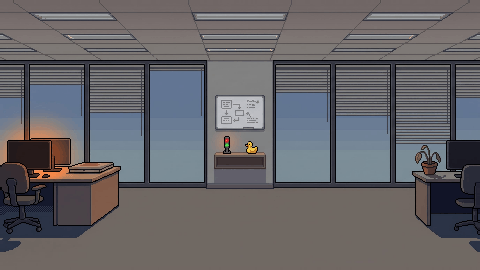
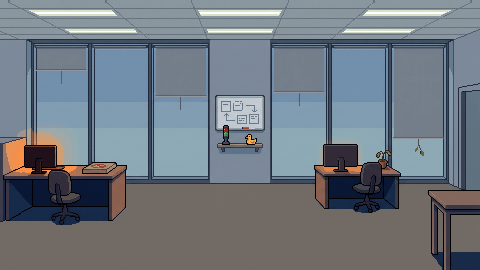
feat(pushback): the four scenes from the third round, with the furniture at the figures' scale; the loops remapped; the duellists 150 apart in every room

diff --git a/src/lib/lab/pushback/characters.ts b/src/lib/lab/pushback/characters.ts
@@ -183,15 +183,18 @@ export const SCENE_OF: Record<Role | 'boss', SceneId> = {
  * move the stands a little once they exist.
  */
 export const STANDS: Record<SceneId, { left: number; right: number }> = {
-  // The desk islands reach in to x 112 and from x 369; the shelf with the
-  // build light sits between the duellists
-  floor: { left: 119, right: 286 },
-  // The fern stands at x 62 to 115 against the wall, the glass wall from 397
-  meeting: { left: 94, right: 324 },
-  // The printer ends at x 94, the desk starts at 371
-  studio: { left: 104, right: 282 },
-  // The cabinet ends at x 68, the desk spans 157 to 324, the putter is at 434
-  office: { left: 75, right: 332 },
+  // All four put the figures 150 apart (cells at stage x 49 and 199, so
+  // seventy pixels of room to either edge), the ghost between them.
+  // The left desk ends at x 128, the right one starts at 323; the shelf
+  // with the build light sits between the duellists
+  floor: { left: 122, right: 272 },
+  // The chair ends at x 120; the table (243 to 398) stands behind
+  meeting: { left: 132, right: 282 },
+  // The chair ends at x 120, the desk starts at 333
+  studio: { left: 128, right: 278 },
+  // The cabinet ends at x 90, the desk spans 250 to 340 with the chair
+  // behind its right end, where the Stakeholder stands
+  office: { left: 150, right: 300 },
 };
 
 // Player looks
